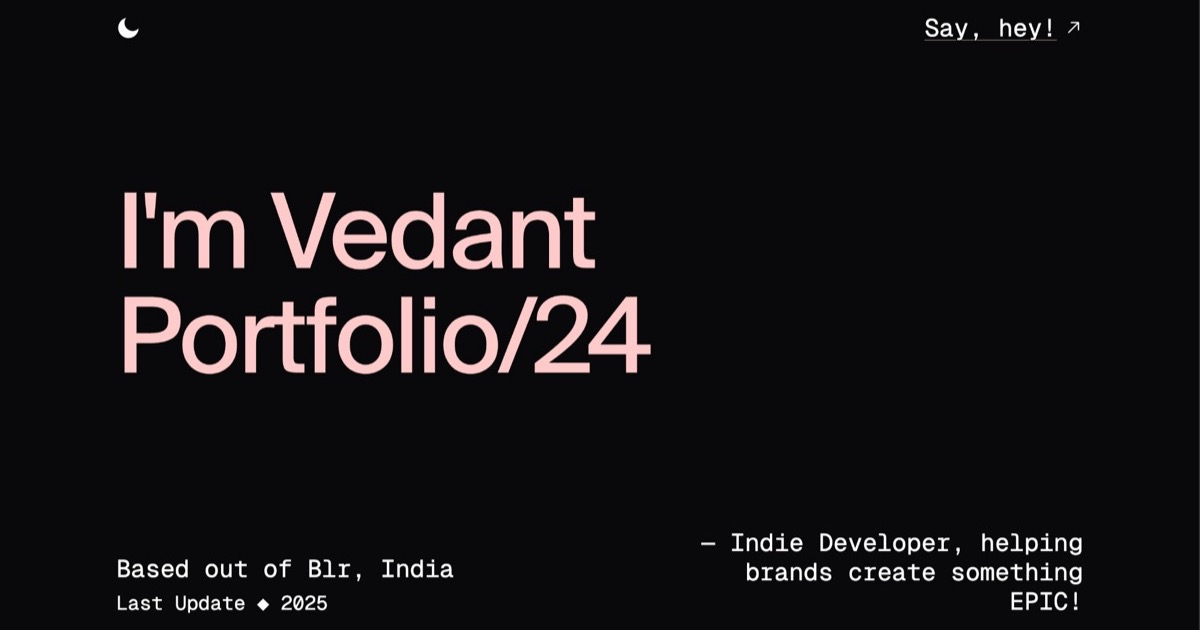
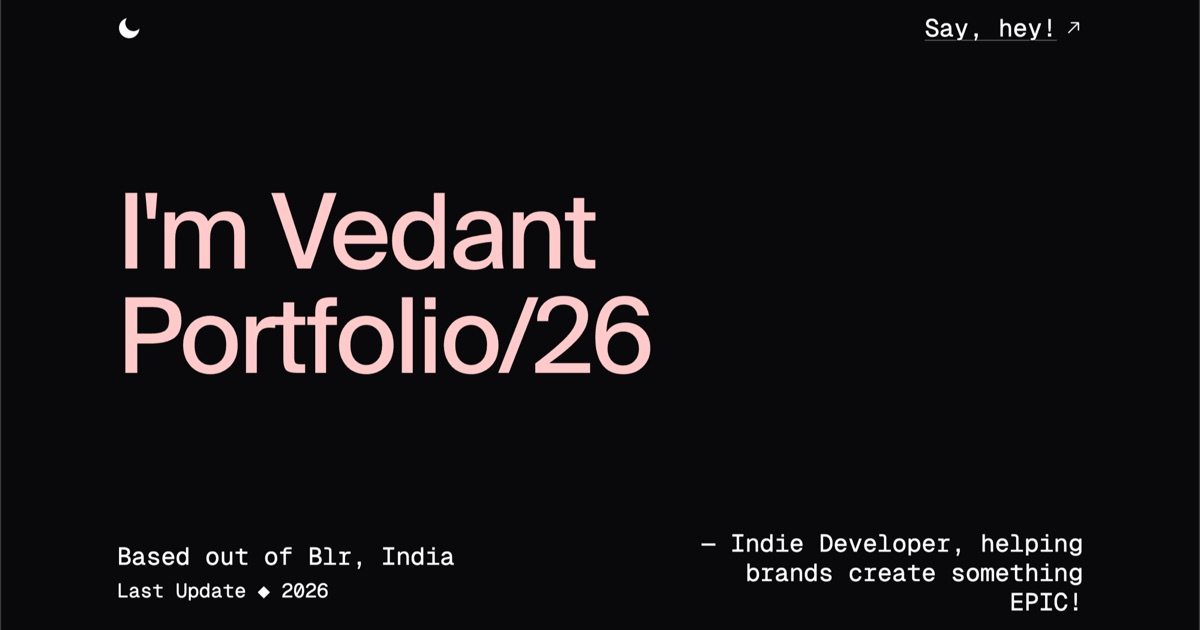
refactor: optimize layout responsiveness, update content copy, and fix ScrollTrigger font-loading alignment issues

diff --git a/src/components/About.jsx b/src/components/About.jsx
@@ -46,6 +46,13 @@ function About() {
         scale: 0.9,
       });
 
+      // The mono font swaps in after this setup runs and shifts the text,
+      // leaving ScrollTrigger measuring stale offsets — on mobile the reveal
+      // then never fires. Recompute once fonts have settled.
+      if (document.fonts?.ready) {
+        document.fonts.ready.then(() => ScrollTrigger.refresh());
+      }
+
       return () => {
         splitTypes?.forEach((anim) => anim?.kill());
         growTl.kill();
@@ -74,7 +81,7 @@ function About() {
           <h1 className="animate-text geist-mono text-lg sm:text-xl md:text-xl lg:text-xl xl:text-2xl">
             {about.intro}
             <br />
-            <span className="mt-4 block text-zinc-400">
+            <span className="mt-4 block">
               {about.outroMuted}{" "}
               <span className="text-[#fe7c7b] dark:text-[#ffcaca]">
                 {about.outroHighlight}

diff --git a/src/config/content.js b/src/config/content.js
@@ -36,7 +36,7 @@ export const content = {
       src: "/images/pfp.webp",
       alt: "Vedant's profile picture",
     },
-    intro: `Hey, I'm Vedant. I'm ${age}, based in Bangalore, working as an AI Engineer at MontyCloud, and I've been freelancing and shipping products for the last 3–4 years. My philosophy is simple — tech is just a means to an end.`,
+    intro: `Hey, I'm Vedant. I'm ${age}, based in Bangalore, working as an AI Engineer at MontyCloud, and I've been freelancing and shipping products for the last few years. My philosophy is simple: tech is just a means to an end.`,
     outroMuted:
       "I don't claim to know every algorithm or tool out there, but that never stops me. Syntax can be Googled and logic figured out; what can't be taught is the obsession to get things done.",
     outroHighlight: "What I promise is High Agency.",

diff --git a/src/components/Connect.jsx b/src/components/Connect.jsx
@@ -52,15 +52,10 @@ function Connect() {
             {connect.email}
           </a>
         </div>
-        <div className="grid w-full grid-cols-2 gap-y-6 overflow-hidden sm:gap-y-8">
-          <div className="flex justify-around overflow-hidden">
-            <SocialLink {...connect.socials[0]} />
-            <SocialLink {...connect.socials[1]} />
-          </div>
-          <div className="flex justify-around overflow-hidden">
-            <SocialLink {...connect.socials[2]} />
-            <SocialLink {...connect.socials[3]} />
-          </div>
+        <div className="flex w-full items-center justify-between overflow-hidden">
+          {connect.socials.map((social) => (
+            <SocialLink key={social.name} {...social} />
+          ))}
         </div>
       </div>
     </section>

diff --git a/src/components/Hero.jsx b/src/components/Hero.jsx
@@ -10,7 +10,7 @@ function Hero() {
   const emailHref = `mailto:${hero.navCta.email}?subject=${emailSubject}`;
 
   return (
-    <div className="container relative mx-auto flex min-h-[100vh] flex-col bg-[#e9e9e9] p-6 text-black transition-colors duration-300 dark:bg-[#09090b] dark:text-white sm:p-6 md:p-12">
+    <div className="container relative mx-auto flex min-h-[100svh] flex-col bg-[#e9e9e9] p-6 text-black transition-colors duration-300 dark:bg-[#09090b] dark:text-white sm:p-6 md:p-12">
       <nav
         className="flex w-full items-center justify-between overflow-hidden"
         aria-label="Top Navigation">

diff --git a/src/components/Experience.jsx b/src/components/Experience.jsx
@@ -29,7 +29,8 @@ function Experience() {
                   <h1
                     className="experience-text geist-mono text-xl"
                     style={{ textAlign: "start" }}>
-                    {work.company} - {work.title}
+                    <span className="font-bold">{work.company}</span> -{" "}
+                    {work.title}
                   </h1>
                 </div>
                 <div>
